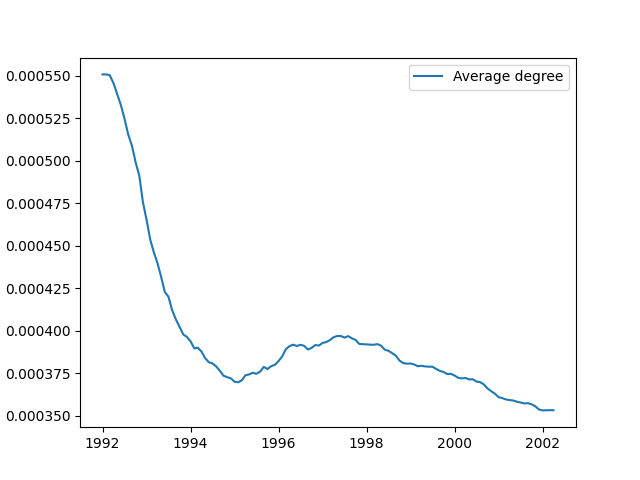
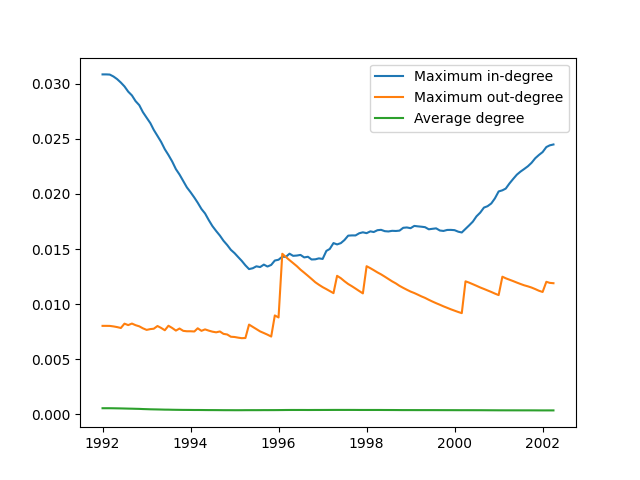
added maxOut and maxIn degree centrality

diff --git a/src/centrality/d_centrality.py b/src/centrality/d_centrality.py
@@ -38,8 +38,8 @@ with open(COMPUTED_FILE, "r") as cc_file:
         avg.append(average)
 
 plt.figure(num="Maximum degree centrality vs time")
-# plt.plot(dates, max_in, label="Maximum in-degree")
-# plt.plot(dates, max_out, label="Maximum out-degree")
+plt.plot(dates, max_in, label="Maximum in-degree")
+plt.plot(dates, max_out, label="Maximum out-degree")
 plt.plot(dates, avg, label="Average degree")
 plt.legend()
 plt.savefig("images/d_centrality.png")
